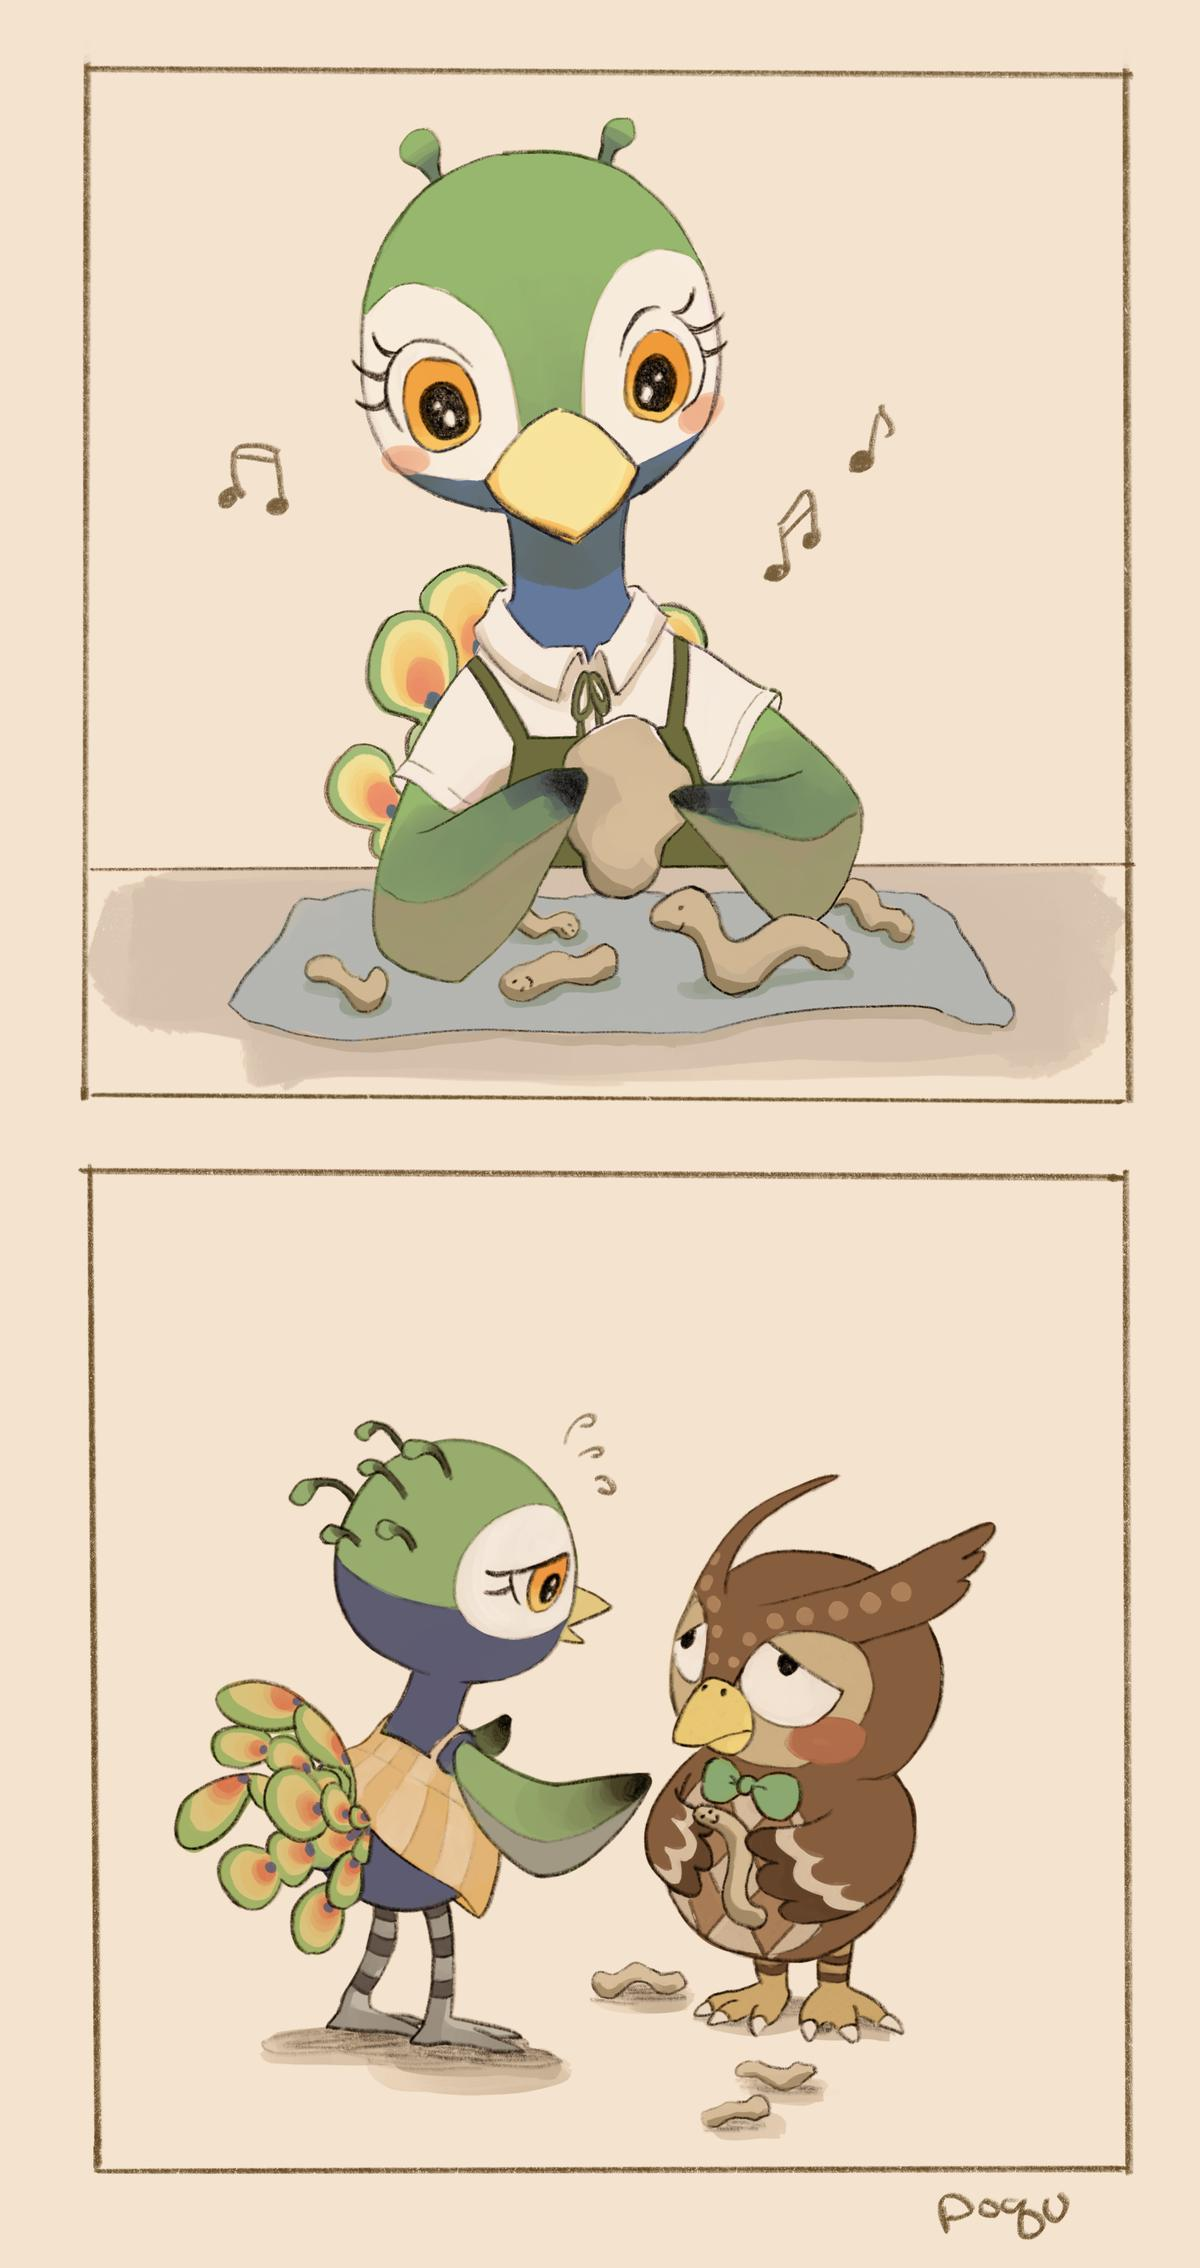
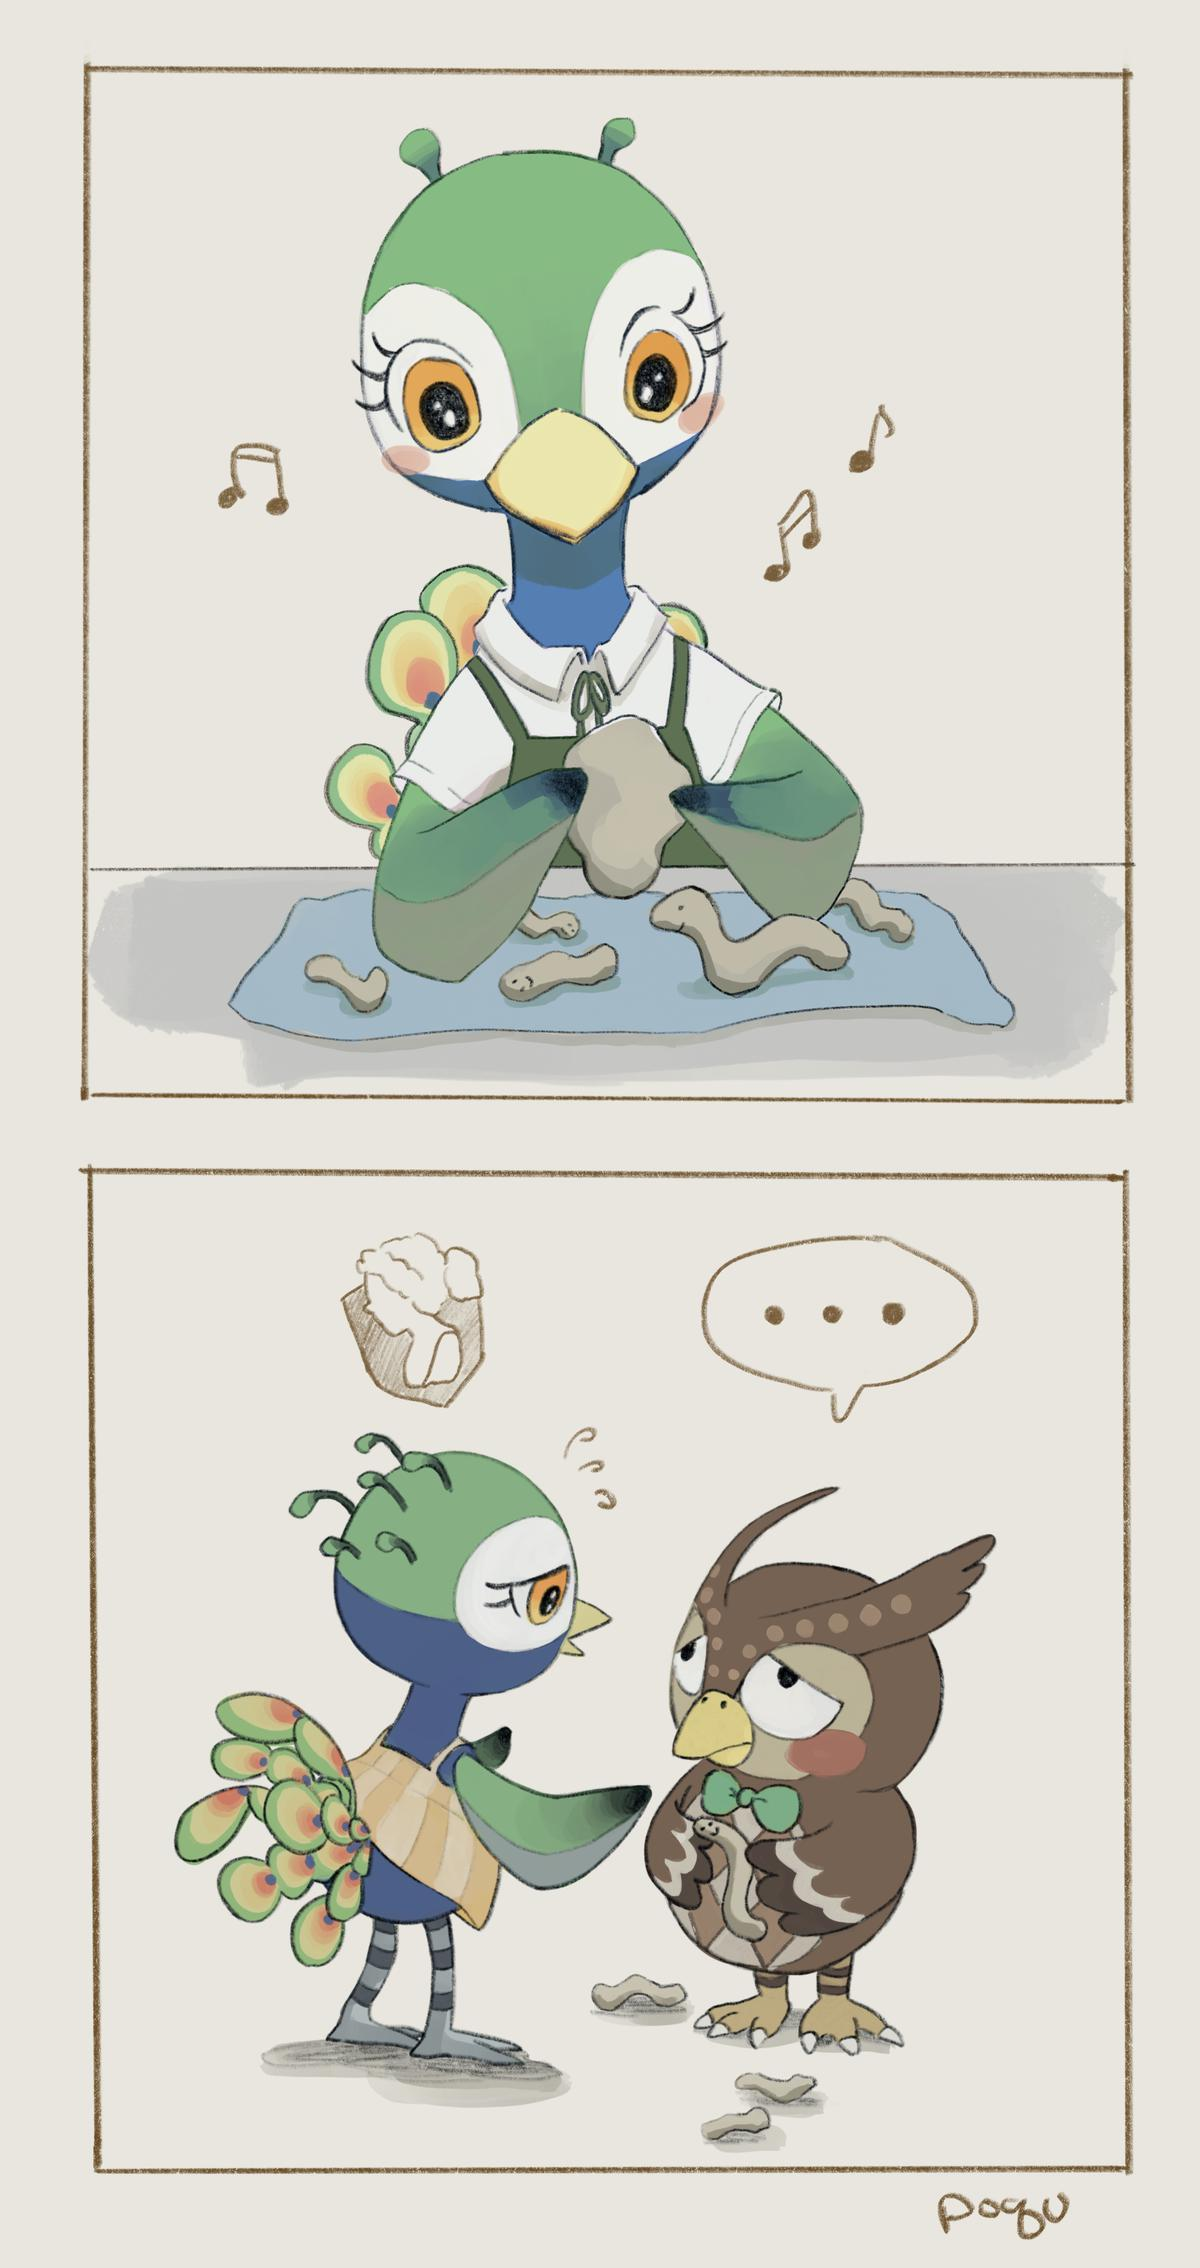
link/hestu and julia recolor

diff --git a/content/fanart/linknhestu.md b/content/fanart/linknhestu.md
@@ -1,0 +1,12 @@
++++
+date = "2020-11-23T13:41:01+05:30"
+title = "chilling"
+draft = false
+image = "img/portfolio/linknhestu.jpg"
+showonlyimage = true
+weight = 1
++++
+
+Link and Hestu just chilling together.
+
+![trash](/img/portfolio/linknhestu.jpg)
